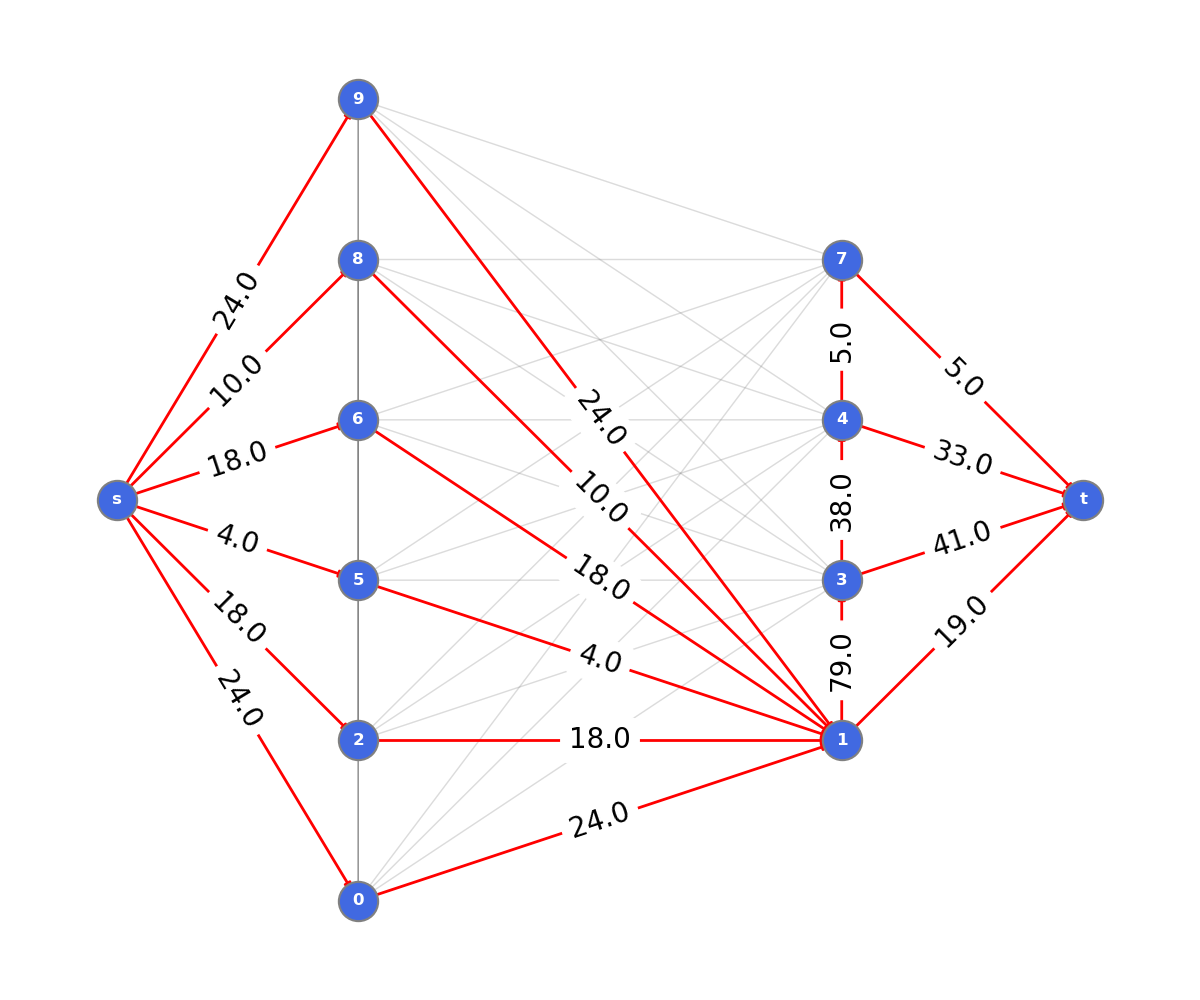
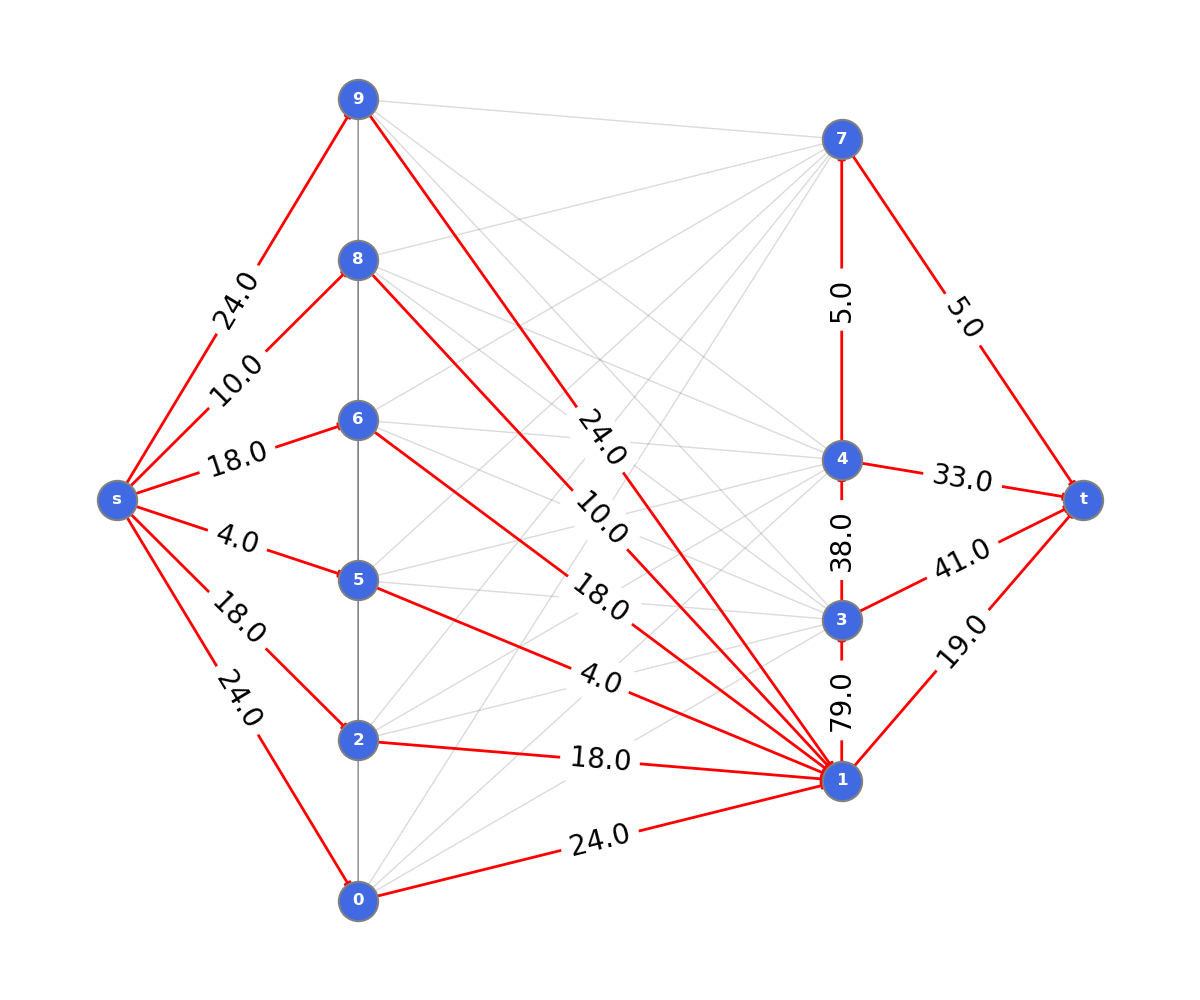
wrote more comments so the code is easier to look at

diff --git a/hw1/hw1.py b/hw1/hw1.py
@@ -1,6 +1,9 @@
 import numpy as np
 import matplotlib.pyplot as plt
 
+# the draw function of the utils.py provided 
+# was changed so the drawing looked more like 
+# the rest of my plots
 from utils_altered import flow_layout, draw_flow
 
 def draw_graph(graph, positions):
@@ -21,12 +24,19 @@ if __name__ == "__main__":
     print("\n=====================================")
     print("     Part (a): Plotting IEEE30       ")
     print("=====================================")
-    fig = plt.figure(figsize=  (12, 10))
+    
+    # Reading graph from edgelist
     graph30 = nx.read_edgelist("HW1_2026/ieee30.edgelist")
+    # Creating graph positions so it looks ok when plotted
     positions30 = nx.spring_layout(graph30, k = 0.3, seed = 2026, iterations = 50)
     
+    # creating figure
+    fig = plt.figure(figsize=  (12, 10))
+    
+    # using preset graph stuff to make the graph look nice
     draw_graph(graph30, positions30)
     
+    # saving graph to file
     plt.savefig("ieee30_graph.png")
     plt.close()
     
@@ -34,14 +44,18 @@ if __name__ == "__main__":
     degree_sequence = [d for n,d in graph30.degree]
     max_degree = max(degree_sequence)
     print(f"Maximum degree: {max(degree_sequence)} at node(s): {[n+1 for n,d in enumerate(degree_sequence) if d == max_degree]}")
-    print(f"The graph has a density of {nx.density(graph30)}")
+    print(f"The graph has a density of {nx.density(graph30):0.5f}")
     
     print("\n=====================================")
     print("     Part (b): Plotting IEEE123      ")
     print("=====================================")
-    fig = plt.figure(figsize=(12, 10))
+    
+    # Reading graph from edgelist
     graph123 = nx.read_weighted_edgelist("HW1_2026/ieee123.edgelist")
+    # Creating graph positions so it looks ok when plotted
     positions123 = nx.nx_agraph.graphviz_layout(graph123, prog="dot")
+    
+    fig = plt.figure(figsize=(12, 10))
     
     draw_graph(graph123, positions123)
     
@@ -51,18 +65,20 @@ if __name__ == "__main__":
     degree_sequence = [d for n,d in graph123.degree]
     max_degree = max(degree_sequence)
     print(f"Maximum degree: {max(degree_sequence)} at node(s): {[n+1 for n,d in enumerate(degree_sequence) if d == max_degree]}")
-    print(f"The graph has a density of {nx.density(graph123)}")
+    print(f"The graph has a density of {nx.density(graph123):0.5f}")
     
     print("\n=====================================")
     print("     Part (c): Graph Connectivity    ")
     print("=====================================")
     
+    # Is the 30-node graph connected
     if nx.is_connected(graph30):
         print(f"Graph ieee30 is connected.")
     
     else:
         print(f"Graph ieee30 is not connected.")
         
+    # Is the 123-node graph connected
     if nx.is_connected(graph123):
         print(f"Graph ieee123 is connected.")
     
@@ -73,19 +89,42 @@ if __name__ == "__main__":
     print("     Part (d): Graph Cycles    ")
     print("=====================================")
 
-    cycle_path = nx.find_cycle(graph30)
-    print(f'IEEE30 Cycle Example:\t{cycle_path}')
-    fig = plt.figure(figsize=  (12, 10))
-    draw_graph(graph30, positions30)
+    # Using networkX to find it a cycle exists for each plot
+    # If a cycle does exist, the found cycle will be plotted
+    # If a cycle does not exist, find_cycle raises and exception
+    # So the code blocks are help in a try/except
     
-    # drawing nodes and edges in path
-    nx.draw_networkx_nodes(graph30, positions30, nodelist=[u for u,v in cycle_path], edgecolors='green', node_size=800, linewidths=3)
-    nx.draw_networkx_edges(graph30, positions30, edgelist=cycle_path, edge_color = 'green', width=5)
-    plt.savefig('ieee30_cycle.png')
-    plt.close()    
-        
+    # For IEEE30
     try:
-        print(f'IEEE123 Cycle Example:\t{nx.find_cycle(graph123)}')
+        cycle_path = nx.find_cycle(graph30)
+        print(f'IEEE30 Cycle Example:\t{cycle_path}')
+        
+        fig = plt.figure(figsize=  (12, 10))
+        draw_graph(graph30, positions30)
+        
+        # drawing nodes and edges in path
+        nx.draw_networkx_nodes(graph30, positions30, nodelist=[u for u,v in cycle_path], edgecolors='green', node_size=800, linewidths=3)
+        nx.draw_networkx_edges(graph30, positions30, edgelist=cycle_path, edge_color = 'green', width=5)
+        plt.savefig('ieee30_cycle.png')
+        plt.close()    
+        
+    except nx.exception.NetworkXNoCycle:
+        print('No cycle for IEEE30')
+    
+    # For IEEE123
+    try:
+        cycle_path = nx.find_cycle(graph123)
+        print(f'IEEE30 Cycle Example:\t{cycle_path}')
+        
+        fig = plt.figure(figsize=  (12, 10))
+        draw_graph(graph123, positions123)
+        
+        # drawing nodes and edges in path
+        nx.draw_networkx_nodes(graph123, positions123, nodelist=[u for u,v in cycle_path], edgecolors='green', node_size=800, linewidths=3)
+        nx.draw_networkx_edges(graph123, positions123, edgelist=cycle_path, edge_color = 'green', width=5)
+        plt.savefig('ieee30_cycle.png')
+        plt.close()    
+        
     except nx.exception.NetworkXNoCycle:
         print('No cycle for IEEE123')
         
@@ -93,8 +132,13 @@ if __name__ == "__main__":
     print("     Part (e): Graph Bridges         ")
     print("=====================================")
     
+    # Finding the minimum number of cuts for the graph30
+    # These will infact be bridges
+    # minimum_edge_cut will find the first instance of a bridge
+    # bridges will find all instances
     cut_edges = nx.minimum_edge_cut(graph30)
     bridges = list(nx.bridges(graph30))
+    
     fig = plt.figure(figsize = (12, 10))
     draw_graph(graph30, positions30)  
     nx.draw_networkx_edges(graph30, positions30, edgelist=bridges, edge_color = 'red', width=5)
@@ -108,6 +152,9 @@ if __name__ == "__main__":
     print("     Part (f): Handshaking Theorem   ")
     print("=====================================")
     
+    # sum of degrees = 2|edges|
+    # just need to confirm that total edges count half the sum of degrees
+    
     print(f"Total Number of Edges for IEEE30:\t{graph30.number_of_edges()}")
     print(f"Sum of degrees for IEEE30:\t\t{sum(d for n,d in graph30.degree)}")
     print('\n')
@@ -117,40 +164,57 @@ if __name__ == "__main__":
     print("\n=====================================")
     print("     Part (g): Shortest Path         ")
     print("=====================================")
+    
+    # nodes to start and stop path
     initial_node = '1'
     terminal_node = '30'
+    
+    # uses networkX algorithms to find path
     shortest_path = nx.shortest_path(graph30, initial_node, terminal_node)
+    
+    # shortest_path returns a list of nodes
+    # converting nodes to edges so they can be plotted
     shortest_path_edges =  [(shortest_path[i], shortest_path[i+1]) for i in range(len(shortest_path) - 1)]
     
+    # printing and plotting
     print(f" The shortest path from {initial_node} to {terminal_node} is {shortest_path}")
+    
     fig = plt.figure(figsize=  (12, 10))
     draw_graph(graph30, positions30)
     nx.draw_networkx_edges(graph30, positions30, edgelist =shortest_path_edges, edge_color='green', width = 5)
     plt.savefig('ieee30_shortest_path.png')
     
     plt.close()
+    
     print('-----------------------------------------------------')
     print('Problem 5')
 
+    # given values/commands for this
     N = 10
     T = 1000* N
     
+    # setting seed for repeatability
     rng = np.random.default_rng(seed = 2026)
     amounts_spent = rng.multinomial(T, pvals = np.ones(N) / N)
     
+    # Checking that the total money spent is equal to T
     assert sum(amounts_spent) == T, "Total of amounts spent must equal T"
     
     # Generating complete graph
     G = nx.complete_graph(N, nx.DiGraph())
     nx.set_edge_attributes(G, np.inf, 'Capacity')
     
+    # Parsing amounts_spent into people who paid less than fair share
     underpaid = np.where(amounts_spent < T/N)[0]
+    # and people who paid more than fair share
     overpaid = np.where(amounts_spent >= T/N)[0]
 
     # Setting up flow network 
     G.add_node('s')
     G.add_node('t')
     
+    # connected people who underpaid to source node
+    # and people who overpaid to target node
     for i in range(N):
         if i in underpaid:
             G.add_edge('s', i, capacity = abs(T/N - amounts_spent[i]))
@@ -159,12 +223,14 @@ if __name__ == "__main__":
         else:
             pass
         
+    # daring using functions provided
     pos = flow_layout(G, 's', 't')
     fig = plt.figure(figsize = (12, 10))
     draw_graph(G, pos)
     plt.savefig('flow_network.png')
     plt.close()
     
+    # using max flow algorithm  to solve flow network
     max_flow = nx.maximum_flow(G, 's', 't')
     draw_flow(G, max_flow[1], dict(figsize = (12, 10)), dict(font_size = 20))
     plt.axis('off')
